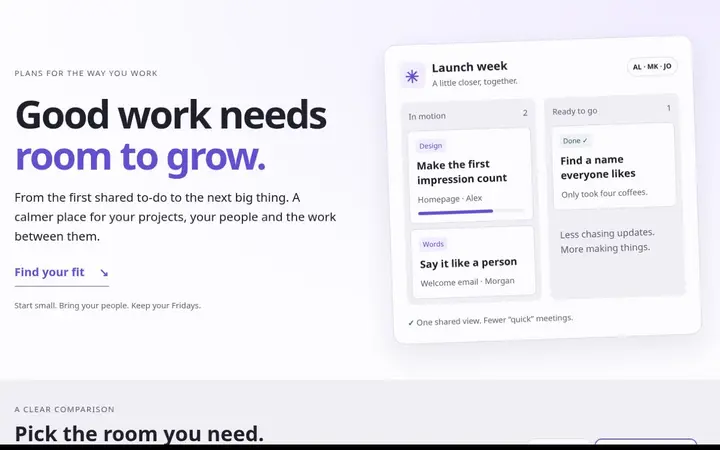
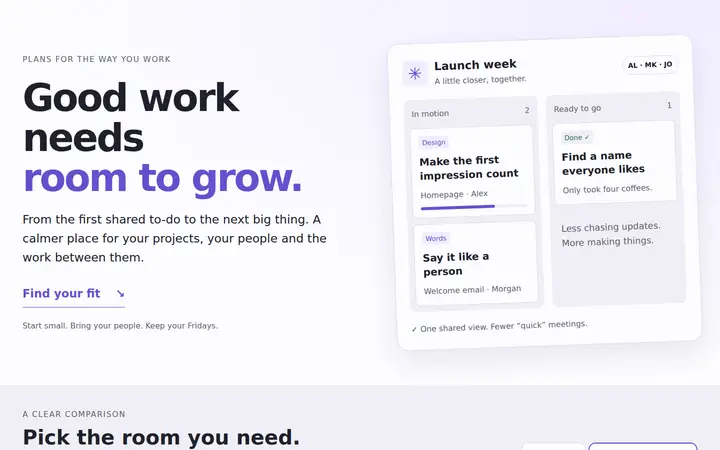
Templates catalogue: Tandem plan comparison; thumbs tool knows it

diff --git a/templates/index.html b/templates/index.html
@@ -50,6 +50,11 @@
           <p>OFFSCREEN 2100, a one-day festival for musicians from films and series: a ticket-poster hero, a timetable across three stages with a stage filter, set notes that open in place and artist profiles. No JavaScript.</p>
           <ul class="tpl-tags"><li class="badge">Marketing</li><li class="badge">Own design</li></ul>
         </article>
+        <article class="card tpl-card" data-tags="commerce own">
+          <a class="tpl-link" href="comparison.html"><img class="tpl-shot" src="../assets/templates/comparison.webp" width="720" height="450" alt="" loading="lazy"><h2>Plan comparison</h2></a>
+          <p>Tandem, a project-management service: four plans and 25 features with a pinned first column and header, plans you can hide, groups you can fold and notes on individual cells. The controls need no JavaScript.</p>
+          <ul class="tpl-tags"><li class="badge">Commerce</li><li class="badge">Own design</li></ul>
+        </article>
         <article class="card tpl-card" data-tags="commerce">
           <a class="tpl-link" href="product.html"><img class="tpl-shot" src="../assets/templates/product.webp" width="720" height="450" alt="" loading="lazy"><h2>Product page</h2></a>
           <p>A camera shop's product page: a gallery that recolours with the chosen finish, variants, specs and reviews. No JavaScript.</p>
